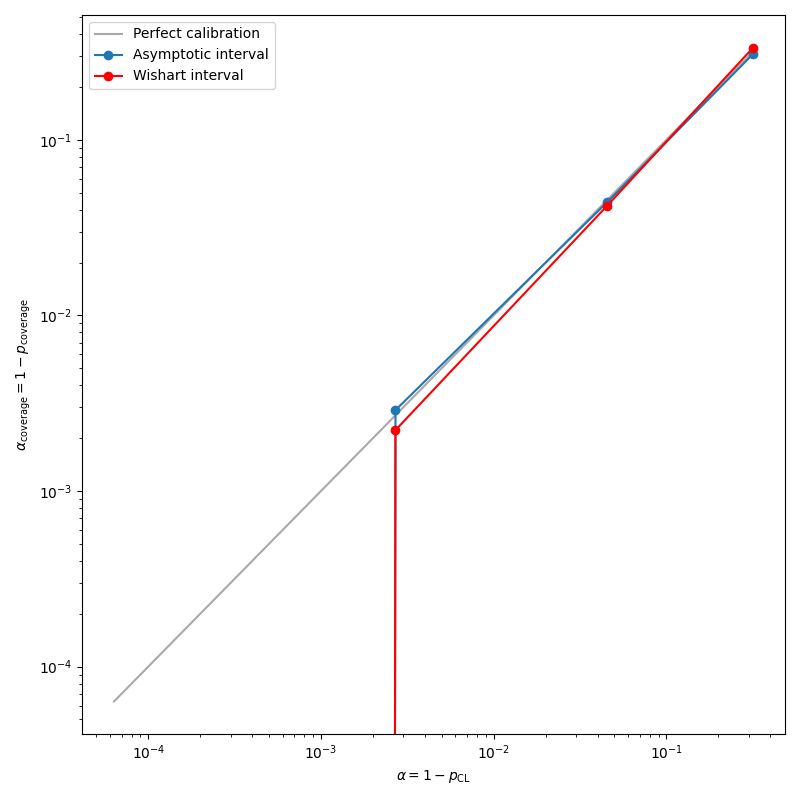
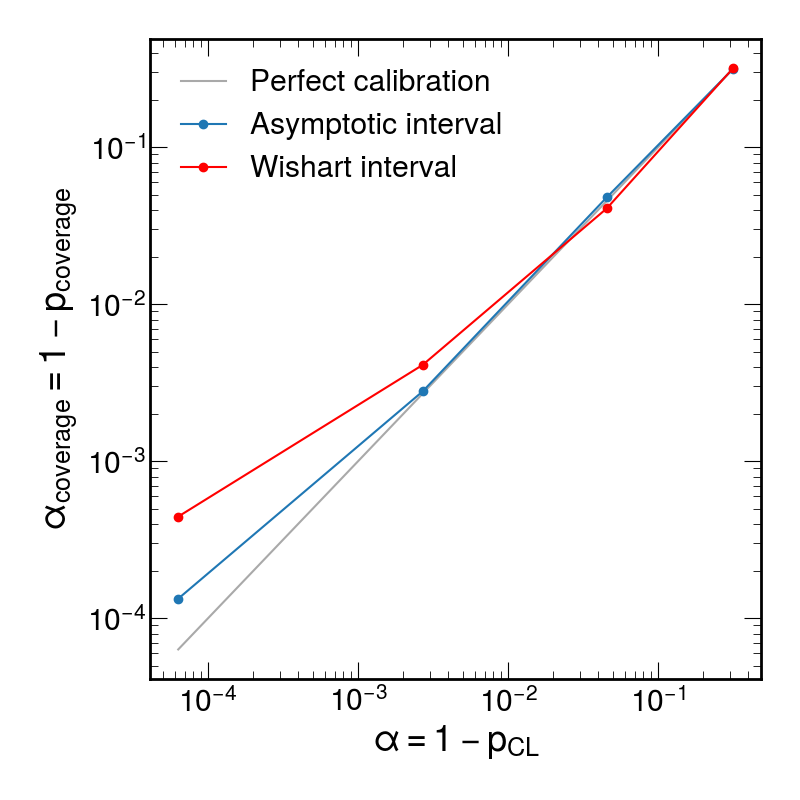
update README fig

diff --git a/tests/test_covariance_intervals.py b/tests/test_covariance_intervals.py
@@ -88,7 +88,7 @@ def compare_methods(
 
 def test_coverage():
     import matplotlib.pyplot as plt
-#    import hepplot as hep
+    import hepplot as hep
 
     # F(z) = Phi(z) = (1/2) * (1 + erf(z/sqrt(2)))
     # Phi(z) = (1 - alpha/2)   For two-sided
@@ -102,8 +102,8 @@ def test_coverage():
     print(alphas)
     print(confidence_levels)
 
-    n_toys = 1000
-#    n_toys = 10000
+#    n_toys = 1000
+    n_toys = 10000
 
     # normal method experiments 
     normal_coverages = list()
@@ -117,6 +117,7 @@ def test_coverage():
 
     # HACK to speedup the test because Wishart MC takes a bit
     n_toys = 100
+#    n_toys = 1000
 
     # wishart method experiments 
     wishart_coverages = list()
@@ -205,17 +206,17 @@ def test_invwishart_precision_interval():
                                     [-31.3883,  58.5513,   7.0423],
                                     [-14.0845,   7.0423,  35.2113]])
 
-    ref_precision =       np.array([[116.4767, -31.0900, -14.6584],
-                                    [-31.0900,  57.6290,   8.2282],
-                                    [-14.6584,   8.2282,  39.5164]])
+    ref_precision =       np.array([[116.1756, -30.2175, -17.7564],
+                                    [-30.2175,  56.7751,  10.1312],
+                                    [-17.7564,  10.1312,  38.1021]])
 
-    ref_precision_lower = np.array([[106.7890, -36.7754, -19.0044],
-                                    [-36.7754,  52.7566,   5.2115],
-                                    [-19.0044,   5.2115,  36.2470]])
+    ref_precision_lower = np.array([[106.2485, -35.6824, -22.0137],
+                                    [-35.6824,  51.9374,   7.2335],
+                                    [-22.0137,   7.2335,  34.9077]])
 
-    ref_precision_upper = np.array([[126.7990, -25.8054, -10.3630],
-                                    [-25.8054,  62.9215,  11.2530],
-                                    [-10.3630,  11.2530,  43.2194]])
+    ref_precision_upper = np.array([[126.9857, -24.9190, -13.5977],
+                                    [-24.9190,  61.9425,  13.1091],
+                                    [-13.5977,  13.1091,  41.5748]])
 
     assert np.allclose(true_precision, ref_true_precision, rtol=0, atol=1e-4)
     assert np.allclose(precision, ref_precision, rtol=0, atol=1e-3)
